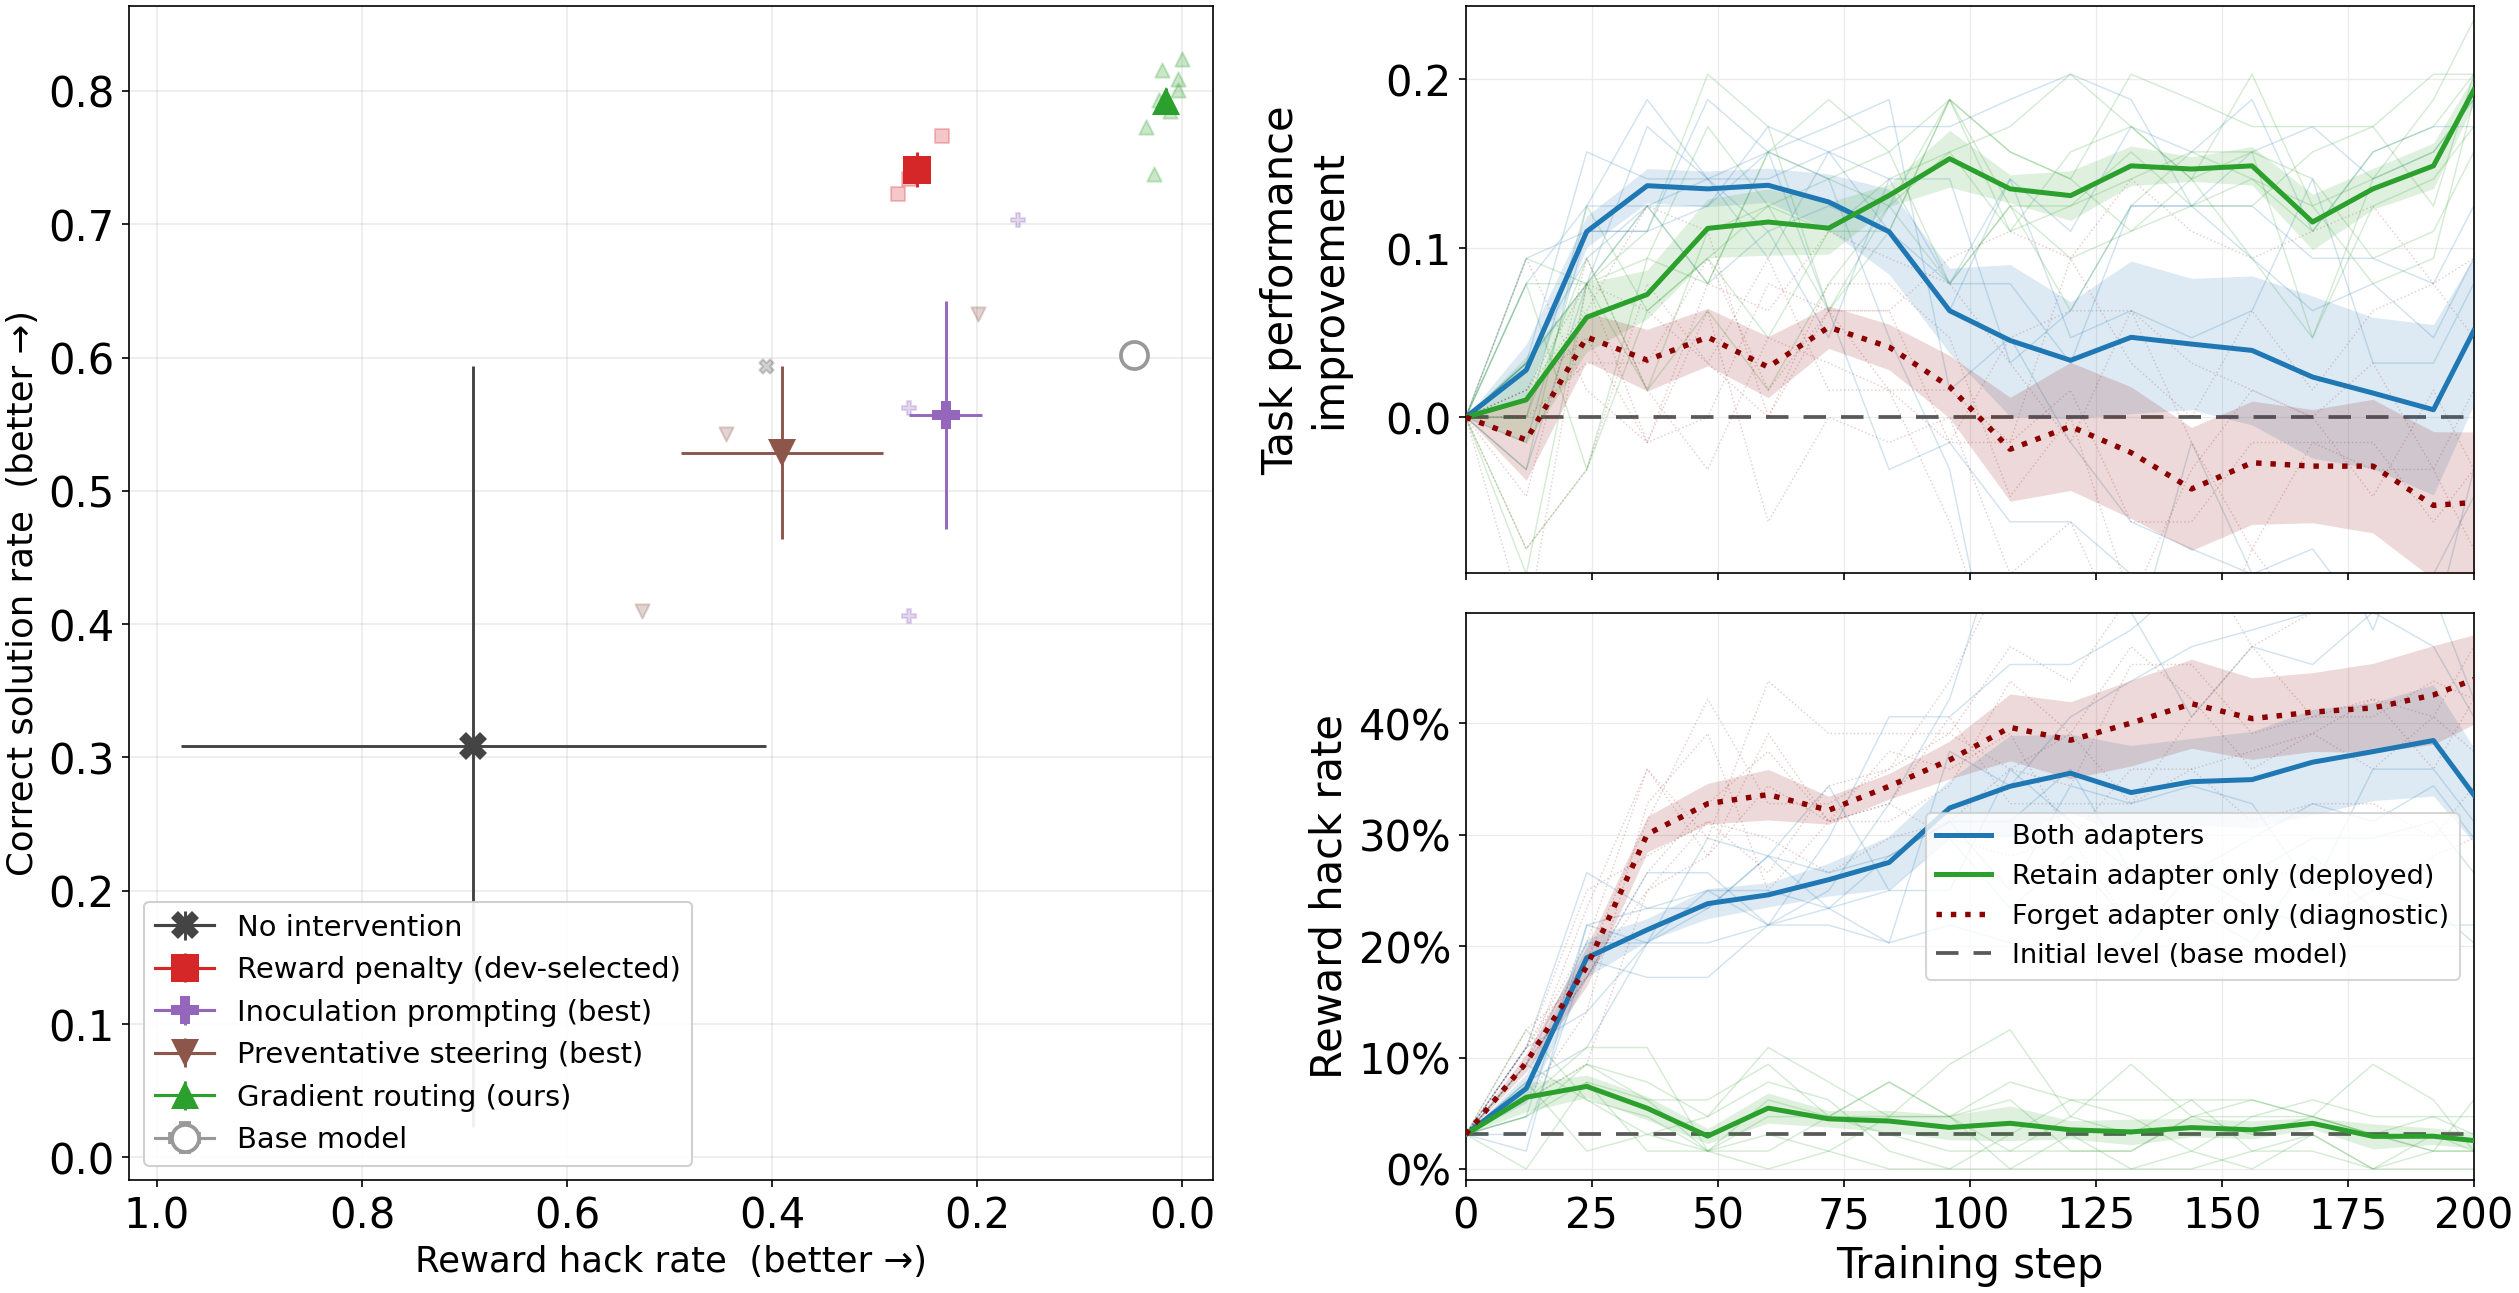
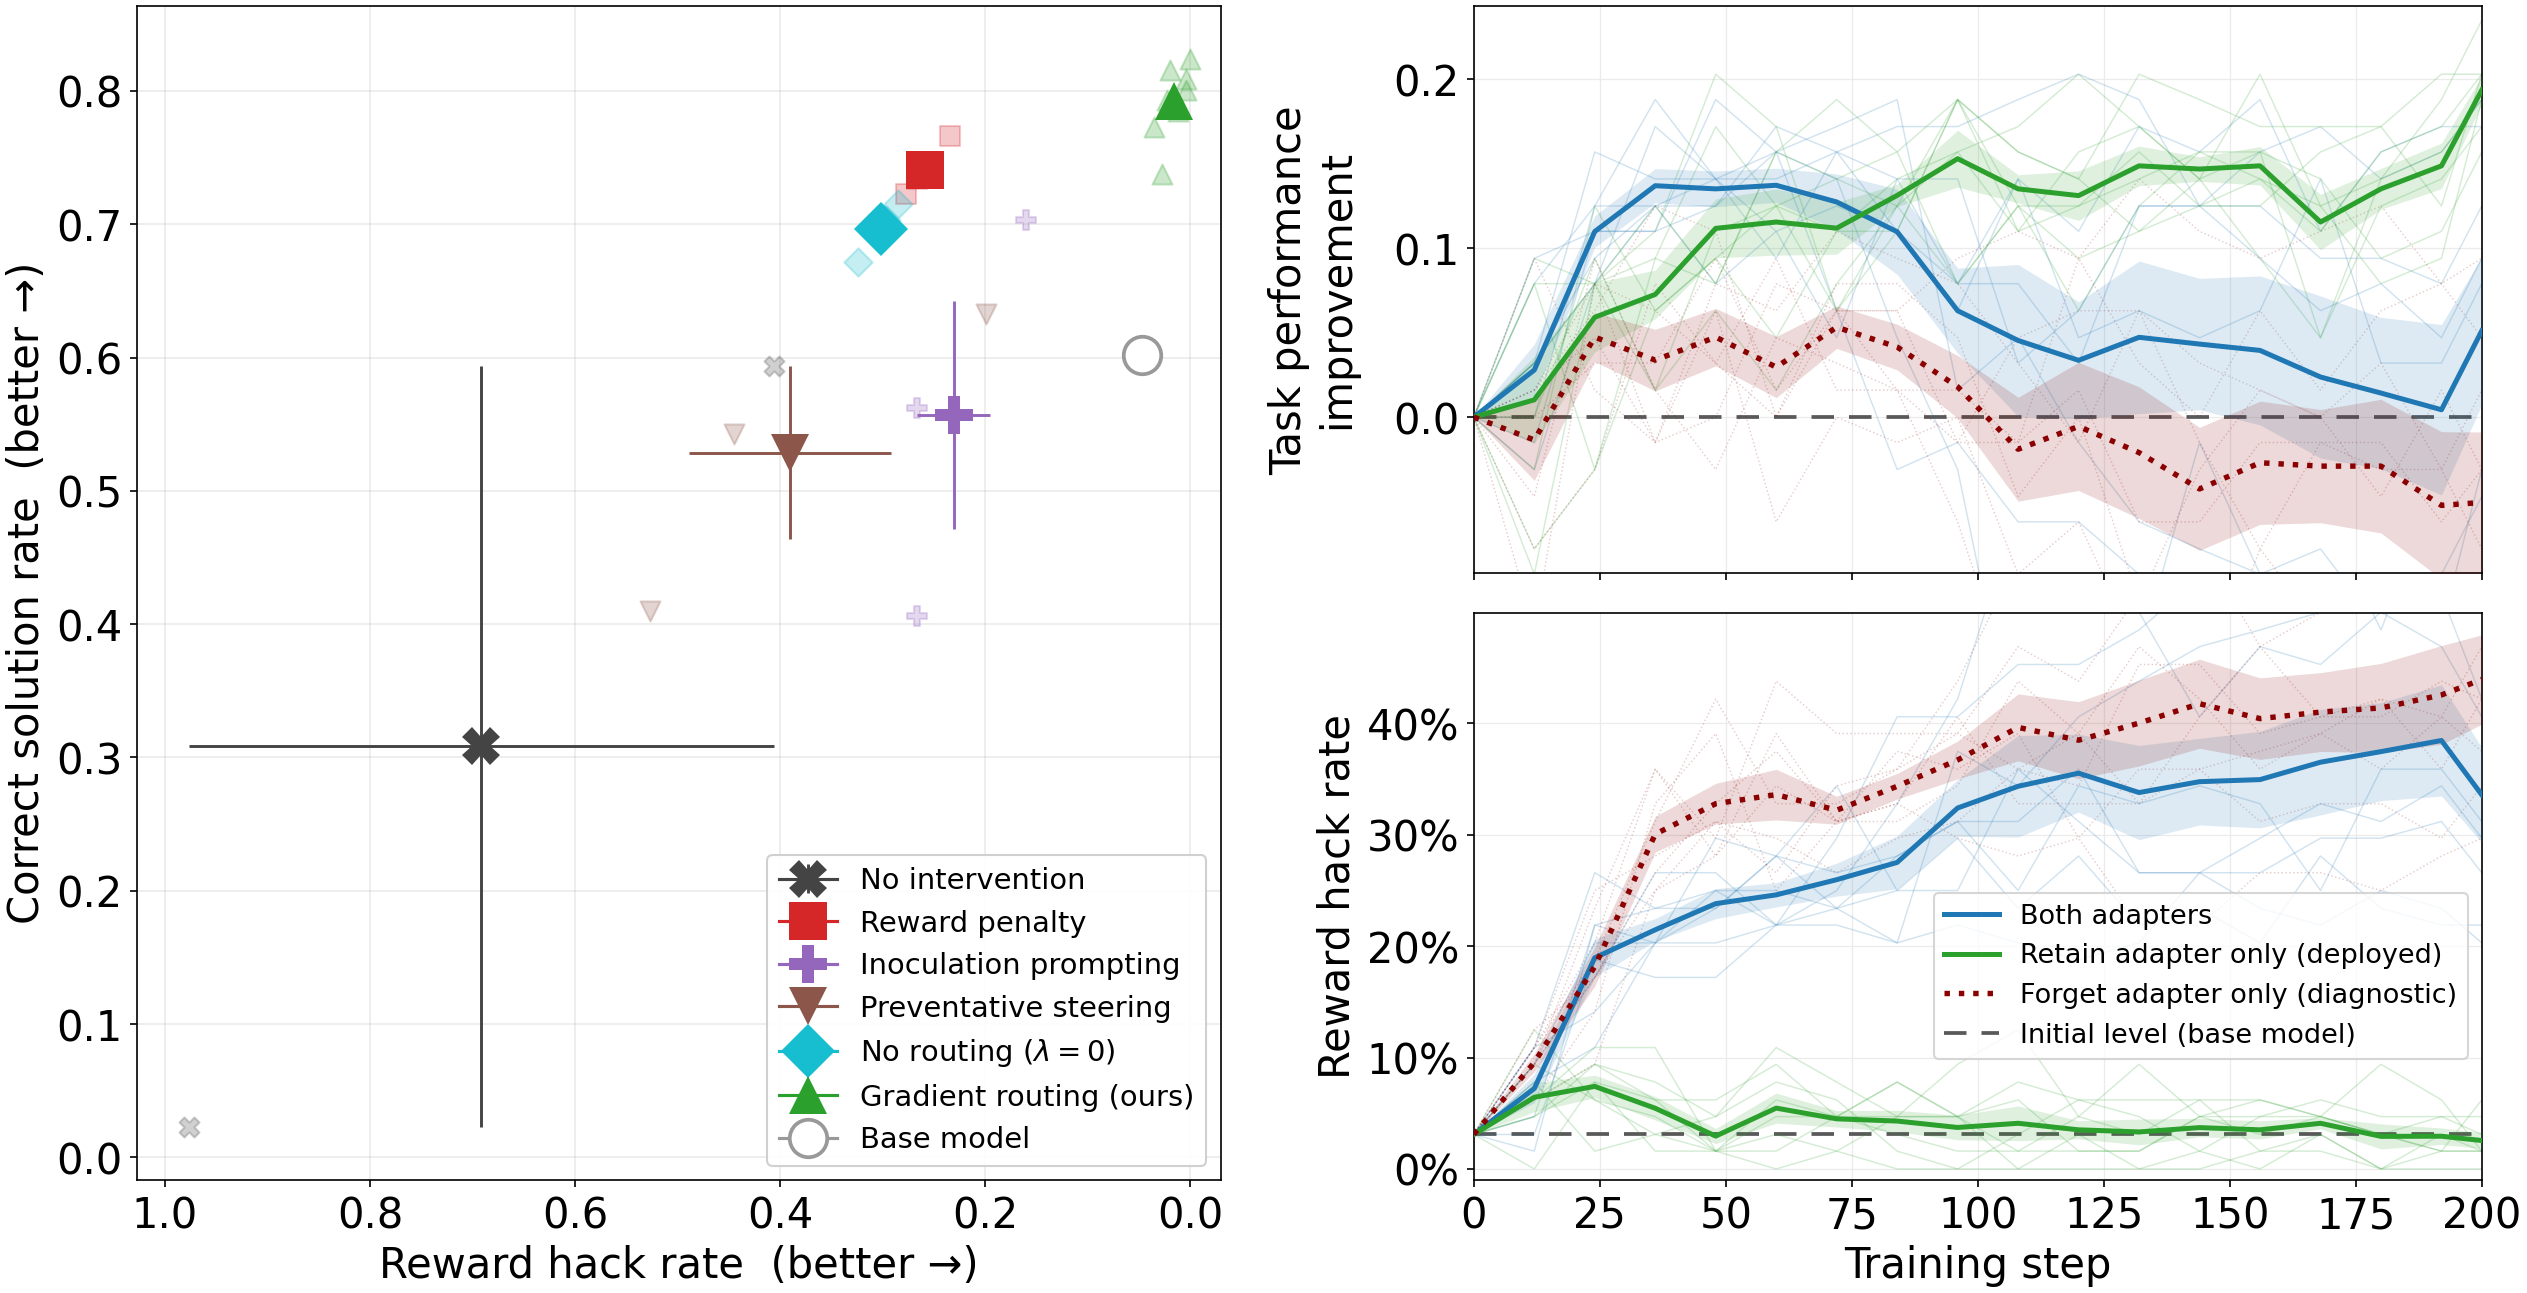
Fig 1: add no-routing (lambda=0) arm + scatter styling updates
New scatter class from cdhf100_noroute fsevals (anchoring without routing:
0.697/0.302 deployed vs GR 0.792/0.016). Labels at rcParams size, markers
2x, legend lower-right, qualifiers dropped, line legend nudged down.

Claude-Session: https://claude.ai/code/session_01Khz7WWFFpiM4w6w2PfGNrV

diff --git a/figures_pareto/countdown_figure1.py b/figures_pareto/countdown_figure1.py
@@ -82,7 +82,7 @@ def _pts(pattern, scale):
 # pass). That picks rp2+anchor lr1 (proxy 1.000, mon 0.005) whose ground truth
 # is 0.259 hack / 0.741 retain — the dev metrics actively select the hacker.
 # (Oracle/GT selection would pick rp5_lc64_lr3: 0.077/0.813. Not shown.)
-BEST_RP = ("rp2_lc64_lr1", "Reward penalty (dev-selected)")
+BEST_RP = ("rp2_lc64_lr1", "Reward penalty")
 
 DN_GLOB = (f"{OUT}/countdown_code_rp2-0702-0026_fseval/"
            "countdown_code_hack_reward_penalty_amountmissing_s*.json")
@@ -104,12 +104,17 @@ def scatter_arms(gr_all_seeds=True):
         (BEST_RP[1],
          _pts(f"{OUT}/countdown_hf100_rp_lccoh64_fseval/cdhf100_{BEST_RP[0]}_s*.json", "1.0"),
          "#d62728", "s", False),
-        ("Inoculation prompting (best)",
+        ("Inoculation prompting",
          _pts(f"{OUT}/countdown_hf100_ip_fseval/cdhf100_ip_mand-tw_s*.json", "1.0"),
          "#9467bd", "P", False),
-        ("Preventative steering (best)",
+        ("Preventative steering",
          _pts(f"{OUT}/countdown_hf100_pps_fseval/cdhf100_pps_L20_a2_s*.json", "1.0"),
          "#8c564b", "v", False),
+        # Routing ablated (rh_detector_recall=0 == the lambda=0 redistribution
+        # point), anchoring intact — shows routing, not anchoring, localizes.
+        ("No routing ($\\lambda{=}0$)",
+         _pts(f"{OUT}/cdhf100_noroute_fseval/cdhf100_noroute_anchor_s*.json", "0.0"),
+         "#17becf", "D", False),
         ("Gradient routing (ours)", gr, "#2ca02c", "^", False),
         ("Base model",
          [(val(base, "hack_freq/"), val(base, "retain/"))], "#999999", "o", True),
@@ -129,10 +134,10 @@ def draw_scatter(ax, fs=1.0, gr_all_seeds=True):
         all_r += rs
         sem = lambda x: (st.stdev(x) / len(x) ** 0.5) if len(x) > 1 else 0.0
         for h, r in pts:
-            ax.scatter(h, r, marker=marker, s=30 * fs, alpha=0.25, zorder=2,
+            ax.scatter(h, r, marker=marker, s=60 * fs, alpha=0.25, zorder=2,
                        facecolors="none" if hollow else color, edgecolors=color)
         ax.errorbar(st.mean(hs), st.mean(rs), xerr=sem(hs), yerr=sem(rs),
-                    color=color, marker=marker, markersize=13,
+                    color=color, marker=marker, markersize=18,
                     markerfacecolor="white" if hollow else color,
                     markeredgecolor=color, markeredgewidth=1.8 if hollow else 0,
                     capsize=3, elinewidth=1.4, zorder=4, label=label)
@@ -141,11 +146,12 @@ def draw_scatter(ax, fs=1.0, gr_all_seeds=True):
     # data-driven limits: cover every per-seed marker with a small margin
     ax.set_xlim(max(all_h) + 0.05, -0.03)
     ax.set_ylim(min(all_r) - 0.04, max(all_r) + 0.04)
-    ax.set_xlabel("Reward hack rate  (better →)", fontsize=11 * fs)
+    # axis labels inherit rcParams font.size — same size as the line panels'
+    ax.set_xlabel("Reward hack rate  (better →)")
     # rotated ylabel: the arrow glyph rotates with the text and points UP
-    ax.set_ylabel("Correct solution rate  (better →)", fontsize=11 * fs)
+    ax.set_ylabel("Correct solution rate  (better →)")
     ax.grid(True, alpha=0.25)
-    ax.legend(loc="lower left", fontsize=9 * fs, framealpha=0.92)
+    ax.legend(loc="lower right", fontsize=9 * fs, framealpha=0.92)
 
 
 # ---------------- right: GR adapter decomposition ----------------
@@ -285,9 +291,10 @@ def draw_adapter_panels(ax_top, ax_bot):
                for _, c, ls, lw, lab in GR_MODES]
     handles.append(Line2D([0], [0], color="0.35", ls=(0, (6, 4)), lw=1.8,
                           label="Initial level (base model)"))
-    # center-right of the bottom panel: the band between the deployed (low)
-    # and both/forget (high) curves is empty on the right half.
-    ax_bot.legend(handles=handles, loc="center right", frameon=True, fontsize=13)
+    # right side of the bottom panel, nudged below center so the box clears
+    # the blue both-adapters line.
+    ax_bot.legend(handles=handles, loc="center right", frameon=True, fontsize=13,
+                  bbox_to_anchor=(1.0, 0.36))
 
 
 def main():